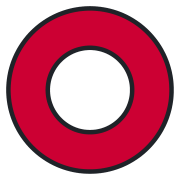
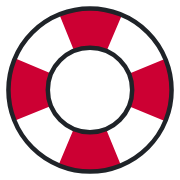
iPhone: faster load, loading screen, tidier phone layout; ignore gauge glitches
- Server gzips the web files and caches them (flood grid 7.8 MB -> 0.47 MB,
  roads 5.2 MB -> 1.26 MB; ETag revalidation, hashed assets cached forever).
- Loading screen with the logo, and the phone layout applies before the app
  finishes loading, so phones never see a half-built desktop page.
- Phone layout: "Tap" instead of "Click" on touch screens, hint no longer
  cut off or under the zoom buttons, zoom buttons above Route me to safety,
  notch-safe header, home-screen (web app) meta tags.
- Gauge readings that jump impossibly fast are dropped (Bound Brook reported
  0.11 ft between two 16.85 ft readings on 2026-10-10); applies to the live
  river and the ML forecast inputs. Tests in test/gauge.test.mjs.
- Re-rendered apple-touch-icon.png and logo-512.png with the life ring's
  white stripes (they had rendered as a solid red ring).

diff --git a/web/src/features/mobile/style.css b/web/src/features/mobile/style.css
@@ -5,7 +5,7 @@
 body.m { height: 100dvh; overflow: hidden; padding-bottom: 0; overscroll-behavior: none; }   /* only the map moves: no page bounce or pull-to-refresh while panning */
 
 /* header: logo, name, Live/What-if on one row; the status line under it; the view switch moves to the bottom bar */
-body.m .top { grid-template-columns: 1fr; gap: 4px; padding: 8px max(12px, env(safe-area-inset-left)); }
+body.m .top { grid-template-columns: 1fr; gap: 4px; padding: max(8px, env(safe-area-inset-top)) max(12px, env(safe-area-inset-right)) 8px max(12px, env(safe-area-inset-left)); }
 body.m .top-center { display: none; }
 body.m .top-left { gap: 10px; }
 body.m .top-right { justify-self: stretch; align-items: flex-start; text-align: left; font-size: 12px; }
@@ -15,12 +15,17 @@ body.m .whatif-bar { display: none; }
 body.m .layout { flex: 1; min-height: 0; display: block; position: relative; height: auto; }
 body.m .mapwrap { position: absolute; inset: 0; height: auto; min-height: 0; }
 body.m .maplibregl-ctrl-bottom-right, body.m .maplibregl-ctrl-bottom-left { bottom: calc(var(--nav-h) + var(--peek-h)); }
+/* Student: lift the zoom buttons above "Route me to safety" so it doesn't cover them */
+body.m[data-view="student"][data-sheet="peek"] .maplibregl-ctrl-bottom-right { bottom: calc(var(--nav-h) + var(--peek-h) + 66px); }
 
 /* Layers and Legend: two small buttons that open on tap */
 body.m .map-layers { top: 8px; right: 8px; bottom: auto; left: auto; padding: 6px 10px; }
 body.m .legend { top: 60px; right: 8px; bottom: auto; left: auto; max-width: calc(100% - 16px); padding: 6px 10px; }
 body.m .map-layers[open], body.m .legend[open] { max-height: 34dvh; overflow: auto; z-index: 5; }
-body.m .map-hint { top: auto; bottom: calc(var(--nav-h) + var(--peek-h) + 72px); left: 50%; transform: translateX(-50%); max-width: calc(100% - 24px); white-space: nowrap; overflow: hidden; text-overflow: ellipsis; }
+/* the hint sits top-left, clear of Layers/Legend (top-right) and the zoom buttons (bottom-right); it wraps instead of being cut off */
+body.m .map-hint { top: 8px; bottom: auto; left: 8px; right: auto; transform: none; max-width: calc(100% - 112px); white-space: normal; font-size: 12px; line-height: 1.3; }
+/* Admin: the Live / What-if switch takes the top-left corner, so the hint goes just under it */
+body.m[data-view="admin"] .map-hint { top: 62px; }
 
 /* main action above the panel: Route me to safety (Student) */
 body.m .go-fab { display: block; position: fixed; left: 12px; right: 12px; bottom: calc(var(--nav-h) + var(--peek-h) + 10px); z-index: 50; min-height: 52px; font-size: 16px; box-shadow: 0 6px 24px rgba(0, 0, 0, .5); }

diff --git a/web/index.html b/web/index.html
@@ -6,11 +6,25 @@
   <meta name="theme-color" content="#080c11" />
   <link rel="icon" type="image/svg+xml" href="/logo.svg" />
   <link rel="apple-touch-icon" href="/apple-touch-icon.png" />
+  <meta name="apple-mobile-web-app-capable" content="yes" />
+  <meta name="mobile-web-app-capable" content="yes" />
+  <meta name="apple-mobile-web-app-status-bar-style" content="black-translucent" />
+  <meta name="apple-mobile-web-app-title" content="RU Afloat" />
+  <style>
+    /* shown until the app is ready, so a phone on slow data never sees a half-built page */
+    #boot { position: fixed; inset: 0; z-index: 1000; display: flex; flex-direction: column; align-items: center; justify-content: center; gap: 14px;
+      background: #080c11; color: #94a3b8; font: 500 15px Inter, system-ui, sans-serif; transition: opacity .25s; }
+    #boot b { color: #f1f5f9; font-size: 22px; }
+    #boot.done { opacity: 0; pointer-events: none; }
+  </style>
   <title>RU Afloat · Raritan Flood Command</title>
   <link rel="preconnect" href="https://fonts.googleapis.com" />
   <link href="https://fonts.googleapis.com/css2?family=Inter:wght@400;500;600;700&family=JetBrains+Mono:wght@500;700&display=swap" rel="stylesheet" />
 </head>
 <body>
+  <script>if (matchMedia("(max-width: 1000px)").matches) document.body.classList.add("m");</script>
+  <div id="boot" role="status"><img src="/logo.svg" width="72" height="72" alt="" /><b>RU Afloat</b><span>Loading flood data…</span></div>
+  <script>setTimeout(() => document.getElementById("boot")?.classList.add("done"), 30000);   // never trap someone behind the loading screen</script>
   <header class="top">
     <div class="top-left">
       <div class="brand">
@@ -33,7 +47,7 @@
       <div id="map"></div>
       <details class="map-layers card" id="layers-box" open><summary>Layers</summary><div id="map-layers" class="layer-list"></div></details>
       <details class="legend card" id="legend-box" open><summary>Legend</summary><div id="legend" class="legend-grid"></div></details>
-      <div class="map-hint" id="map-hint" aria-live="polite">Click a road for its status</div>
+      <div class="map-hint" id="map-hint" aria-live="polite"></div>
     </section>
     <aside class="col right" id="col-right" aria-label="Where to go and reports"></aside>
   </main>

diff --git a/web/src/features/guide/index.ts b/web/src/features/guide/index.ts
@@ -1,6 +1,6 @@
 /** "Get me to safety": start point, nearest dry gathering point, walking route, spoken script (AI + guard), contacts. */
 import maplibregl, { type GeoJSONSource } from "maplibre-gl";
-import type { App, Feature, Pt } from "../../core/app";
+import { TAP, type App, type Feature, type Pt } from "../../core/app";
 import { $, esc, fmtFt, getJson, postJson } from "../../core/util";
 import { announce } from "../../lib/speech";
 import { bestPosition, circle, locateError, type Fix } from "../../lib/locate";
@@ -75,7 +75,7 @@ const feature: Feature = {
     app.legend(`<div>${ic("hospital", "#f472b6")}Hospital</div>`, { key: "hospital" });
     app.legend(`<div>${ic("police", "#60a5fa")}Police</div>`, { key: "police" });
     app.legend(`<div>${ic("fire", "#fb923c")}Fire station</div>`, { key: "fire" });
-    app.setDefaultHint("Click a road for its status · 📍 Pick on map to set your location");
+    app.setDefaultHint(`${TAP} a road for its status · 📍 Pick on map to set your location`);
 
     // One box: where you are (or your location), then Route from this place.
     app.card({ student: "left", studentOrder: 1, id: "guide-card", title: "Get me to safety", order: 20, html: `
@@ -118,7 +118,7 @@ const feature: Feature = {
 
     const q = $<HTMLInputElement>("place-q"), results = $("place-results");
     $("btn-guide").onclick = () => void (start ? run() : locateAndRun());
-    $("btn-pick").onclick = () => app.pick("Click the map where you are", (pt: Pt) => { setStart({ name: "Pinned location", ...pt }); void run(); });
+    $("btn-pick").onclick = () => app.pick(`${TAP} the map where you are`, (pt: Pt) => { setStart({ name: "Pinned location", ...pt }); void run(); });
     $("btn-replay").onclick = () => {
       readOn = !readOn;
       const b = $("btn-replay");
@@ -246,7 +246,7 @@ const feature: Feature = {
         $("guide-out").hidden = true;
       }
       start = s;
-      app.hint(`From: ${s.name} · click a road for its status`);
+      app.hint(`From: ${s.name} · ${TAP.toLowerCase()} a road for its status`);
       q.value = shownName(s);
       $("btn-guide").hidden = true;   // a start is set: routes plan as soon as it changes
       marker?.remove();

diff --git a/web/src/core/app.ts b/web/src/core/app.ts
@@ -5,6 +5,9 @@
 import maplibregl, { type Map as MLMap, type MapMouseEvent } from "maplibre-gl";
 import { BASE_FT, riseDmOf, $ } from "./util";
 
+/** "Tap" on touch screens, "Click" with a mouse. */
+export const TAP = matchMedia("(pointer: coarse)").matches ? "Tap" : "Click";
+
 export type Mode = "live" | "ida" | "whatif";
 export type View = "student" | "admin";
 export type Pt = { lon: number; lat: number };
@@ -45,7 +48,7 @@ export class App {
   private picking: ((pt: Pt) => void) | null = null;
   private pending = 0;
   private started = false;   // no redraws until every feature has initialised
-  private defaultHint = "Click a road for its status";
+  private defaultHint = `${TAP} a road for its status`;
   private keyOn = new Map<string, boolean>();
 
   constructor(private features: Feature[]) {}
@@ -178,6 +181,7 @@ export class App {
 
   async start(createMap: () => Promise<MLMap>) {
     document.body.dataset.view = this.state.view;
+    this.hint();
     document.querySelectorAll<HTMLButtonElement>("#view-seg button").forEach((b) => (b.onclick = () => this.setView(b.dataset.view as View)));
     this.map = await createMap();
     for (const f of this.features) await f.init(this);
@@ -201,5 +205,7 @@ export class App {
     this.update();
     if (import.meta.env.DEV) (window as unknown as { __rudc: object }).__rudc = { app: this, map: this.map };
     (window as unknown as { __ready: boolean }).__ready = true;
+    const boot = document.getElementById("boot");
+    if (boot) { boot.classList.add("done"); setTimeout(() => boot.remove(), 300); }
   }
 }

diff --git a/web/src/features/detection/index.ts b/web/src/features/detection/index.ts
@@ -1,6 +1,6 @@
 /** Ground truth: USGS river cameras + AI check, student photo reports, street water sensors. Live mode only. */
 import maplibregl, { type GeoJSONSource } from "maplibre-gl";
-import type { Feature, Pt } from "../../core/app";
+import { TAP, type Feature, type Pt } from "../../core/app";
 import { $, esc, et, getJson, postJson } from "../../core/util";
 import { observe, shrinkPhoto, type Camera, type CameraCheck, type Report, type ReportStatus, type Sensor } from "./observe";
 import "./style.css";
@@ -56,7 +56,7 @@ const feature: Feature = {
       ready();
     };
     photo.onchange = ready;
-    $("r-pick").onclick = () => app.pick("Click the map where the flooding is", (pt) => setLoc("Pinned on map", pt));
+    $("r-pick").onclick = () => app.pick(`${TAP} the map where the flooding is`, (pt) => setLoc("Pinned on map", pt));
     $("r-gps").onclick = async () => {
       $("r-loc").textContent = "Finding your location…";
       const f = await bestPosition();
